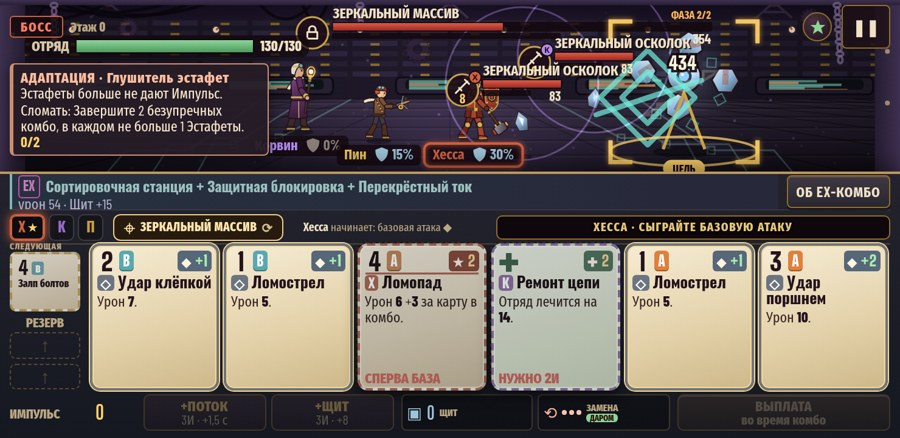
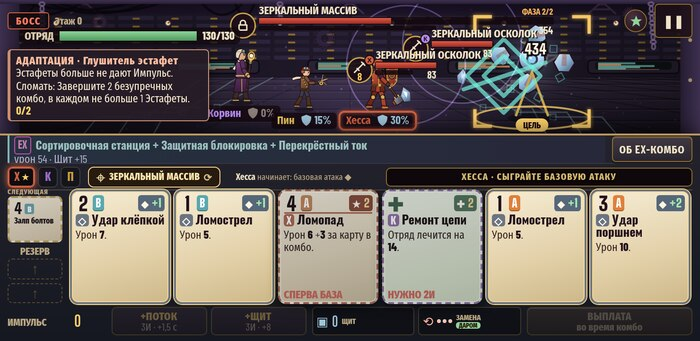
Record Phase 12 beta evidence, remaining checks and rollback

diff --git a/docs/PHASE12.md b/docs/PHASE12.md
@@ -146,3 +146,235 @@ policy uses that action in visible danger and the learner policy does not. The o
 range, 28 versus 23. On both learner ranges the leader is Ladder Rungs. No account-level
 stats, starter conditions or unlock thresholds changed. Early unlock concentration remains
 a replayability question for the beta rather than a reason to add grinds.
+
+## Release-candidate engineering
+
+| Finding | Reproduction | Correction and regression evidence |
+|---|---|---|
+| A stale tab could overwrite a newer run checkpoint or profile. Malformed data looked like a fresh profile. | Load the same snapshot in two sessions, update one, then save from the other. Separately make localStorage unavailable or seed a malformed record. | Save APIs distinguish an empty key, an unreadable record, a changed snapshot and a successful write. They check the current identity before overwriting or clearing it. The UI reports the failure and offers the latest checkpoint. Storage fixtures cover newer runs, newer checkpoints within one run, malformed fields, denied writes, and intentional data erasure limited to game keys. |
+| An interrupted run finalization could leave a live save after the profile commit. | Fail the clear operation after the profile has already been written, then resume. | The Phase 9 two-stage protocol handles recovery with exactly one run record and one set of awards. Browser fault injection demonstrated this in Russian, with three assertions passing. The save schema and storage keys are unchanged. An ordinary Continue from combat restarts that encounter from the checkpoint. |
+| A new worker could cache an old page and activate with a mismatched bundle. It could also remove a sibling scope's cache. | Serve the worker before its matching HTML. Use a sibling app-cache sentinel in the same origin. | The worker validates the page bytes and completes its own asset install before it can activate. Failures leave the previous cache usable. Activation removes only this app scope's superseded caches. Tests assert an old offline launch, a subsequent upgrade, survival of the sibling cache and a save/unlock still readable offline after restart. |
+| Backwards presentation timestamps could stop the Canvas draw loop. | Replayed on the Phase 11 distribution with a controlled negative timestamp, and the old mirror-update run also produced a negative Canvas radius. | Battle and scene clocks are monotonic and the current build draws successfully under the same timestamp fixture. The test observes the real draw loop across the timestamp change. Combat scheduling and elapsed-time caps remain in force. |
+| The compact target label could fall outside the play area, and party labels could intersect the adaptation plaque. | Use the 740×360 DPR 2 Mirror Array fixture with actual summoned enemies and EX recap. | Keep selection labels inside the field and give hero labels clearance. Mirror Array with two shards and a three-enemy ordinary formation retained three separate targets, 12 px effect text and independent adaptation and EX recap areas in the fixture. |
+| Hunt and Reflection forecast information could misstate the defended or dynamic hit. | Change live Guard and vary the last resolved hit. | The intent previews and executed abilities use the same damage inputs. Contract tests cover dynamic Reflection, and the bilingual entry explains Hunt mitigation and the new destination of a latched Reserve card. |
+| Quiet paused screens continued redrawing. The audio scheduler advanced into a muted or interrupted context. | Count Canvas paint calls while paused, and inspect context and music state following real control events. | Static paused state is invalidated by presentation changes such as viewport changes. Bounded viewport rescaling is accounted for. Audio unlock understands pointer, keyboard and click activation, and music work is suspended when its context or volume cannot produce playback. |
+
+The procedural stress fixture walked reachable nodes and edges on all three generated Act
+graphs for each of 1,024 seeds. It observed all 33 ordinary formations and checked Act
+restrictions and reachable routes. Combat tests exercise reservations, legal cancellation,
+target death and retargeting, interrupted EX actions, Reserve, Churn, enemy summons and boss
+adaptations. The existing historical Phase 4–8 coverage is retained. The original undocumented
+Phase 8 Act II stall still has no established root cause. Recent campaigns and recovery tests
+exercise the transitions that succeeded, so their completion does not identify the old failure.
+
+## Performance and presentation evidence
+
+Measurements used desktop Chromium in a 740×360 viewport at DPR 2. An instrumented page
+counted actual battle draws and collected RAF interval, event-to-paint time, observer latency
+and post-GC heap data. Timings include the browser and test runner under variable load.
+
+| Measurement | Phase 11 | Phase 12 |
+|---|---:|---:|
+| Packaged HTML | 1,022,039 bytes | 1,025,366 bytes |
+| Swift Playgrounds ZIP | 921,980 bytes | 921,858 bytes |
+| First app ready, observed | 1,750 ms | 1,458 ms |
+| Warm ready, three samples | 609, 534, 534 ms | 721, 436, 338 ms |
+| Paused Canvas draws over 1.8 s | 77 | 0 |
+| Simple active draw p95 | 5.8 ms | 5.6 ms |
+| Crowded active draw p95, stressed sample | 25.1 ms | 4.6 ms |
+| Heap after collection, first / eighth mount | approximately 4.06 / 5.86 MB | approximately 4.03 / 5.90 MB |
+
+The repeatable optimization is elimination of static paused draws. The loading, active draw
+and timing samples vary with competing processes. They do not establish a general rendering
+speedup or rule out slow accumulation on very long sessions. No mobile hardware, thermal,
+battery or hardware audio measures were available.
+
+The eight bilingual viewport sizes were measured on the packaged build, with no detected
+collisions between the sampled card affordances, enemy plates and EX recap. All 16 combinations
+preserved at least 12 CSS pixels for essential card effects. The shortest field is 141 px.
+Rotation, touch selection, browser focus restoration and keyboard input were sampled
+separately. Linux Firefox ESR 153.5.1 and WebKitGTK 2.52.6 each opened the package at phone
+dimensions, accepted user input, executed a Basic and restored the same run and language.
+These were smoke tests. Firefox audio remained suspended in the headless test. WebKitGTK
+entered a running audio context, while the host had no usable PCM output. Safari, fullscreen
+standalone on iOS and physical Apple device tests remain open.
+
+The mixed music/effects stress recording peaked around 0.159 on a normalized scale with
+zero clipped samples. Muting, first user activation, pause ducking and unmute recovery were
+measured, with Chromium reaching a running context again. These are technical checks.
+Sound quality and device interruption behavior belong to direct listening and physical tests.
+
+See [crowded compact field](phase12/compact-formation.jpg),
+[Mirror Array and the EX recap](phase12/compact-mirror.jpg), and
+[offline campaign results](phase12/offline-results.jpg). The Mirror fixture and scheduler
+frame sequences are controlled presentation evidence. The campaign is ordinary progression.
+
+The larger Russian sweep visited 1,040 rendered screens, including base and upgraded cards.
+It reproduced five small overflows at 740×360 on Dead Drop, Mirror Wire and Pressure Splice.
+Their final compact wording keeps the conditions and values. The detail views retain the
+full wording. In a dedicated packaged retest, all six versions remained at 12 px and fit
+without measured overflow. [Before and after, top then bottom](phase12/compact-copy-comparison.jpg).
+
+A second packaged performance sample found median warm readiness about 557 ms, simple and
+crowded active draw p95 of 3.1 and 5.7 ms, 0 paused draws, 7 ms button-to-paint and 1.4 ms
+save persistence p95. Its first ready result was 1,744 ms. These readings confirm the sizing
+and pause result, with the spread of the remaining timings visible.
+
+## Regression matrix
+
+| Coverage | Evidence |
+|---|---|
+| Unit and integration tests | 281/281 on the Phase 11 checkpoint and 288/288 on the clean final source. The matrix includes the original combat, timing, campaign, rarity, archetype, adaptation and progression suites. |
+| R1 enemy pacing and R2 decision time | Identical Phase 11 and Phase 12 canonical 2.5-second learner opening output. Enemy pace and deliberate Relay timing remain under the standard suites. |
+| R3 downtime and action scheduling | Phase 5 browser fixture 33/33. The queue position, contact, cancellation, reserved Momentum, post-chain breather and enemy ATB during Recovery are independently checked. |
+| R4 targeting | 36/36 over English and Russian touch viewports. The queued attack fixture records one hit and one command still waiting before the retarget. Death, indicators and target cycling were checked separately. |
+| R5 early survivability and content | 60/60 opening and Act I completions for every measured policy and loadout. The original Phase 8 focused formation suite passed 11/11, with all ten actual build paths represented. |
+| R6 presentation and accessibility | Sixteen bilingual layout combinations, Russian full-surface sweep and fixed-card retest, reduced motion, muted state, animated combat fixtures, and the snapshot comparisons above. The engine and Canvas checks were run separately from the sweep. |
+| R7 saves, localization, offline and progression | Russian Phase 7 EX fixture 47/47, Phase 8 interface scenario 51/51, Phase 9 historical and interrupted-finalization fixtures 6/6 and 3/3, plus complete ordinary campaigns and real worker cache replacement. |
+
+The eight Phase 4 failures carried through Phase 10 no longer reproduced as a group. The
+historical suite initially recorded 22/23. Its single intermittent missed snapshot was a
+Reserve refill preview check. Read-only event logging was added to show the exact slot,
+draw, gesture and intervening actions. The same assertion passed with the observed predicted
+card in the same slot, 23/23. The first miss had insufficient evidence to establish a cause.
+
+Phase 5 reproduced a different problem in its fixture. The Warden Locked Pin's exact
+scripted Arte, then its regional Static modifier could lock it again. Two naturally active
+Iron Maws keep the planned chain and enemy ATB coverage. The test still checks lossless
+cancellation, all three heroes, and actual outcome, and the tutorial suite checks enemy Lock
+as its own interaction. Phase 6's initial queue lesson expected an eligible hand at one
+particular moment. The harness now lets the player reach another eligible chain through its
+ordinary controls and asserts the actual paused lesson and executing/waiting UI. The
+returning-player and staged tutorial run passed 32/32. Targeting replaced a wall-clock sleep
+between contact and retargeting with browser-clock fixture control. Every gameplay input is
+still a touch and the exact combat queue assertion is stronger.
+
+The earlier Phase 11 → Phase 12 Pages update passed 22/22. The historical mirror path
+completed all cache and save operations but reproduced one page error stamped
+`c35c1c1`, the old build's Canvas radius exception. Candidate-only Pages and mirror packages
+passed 22/22 and 21/21 with interrupted worker publication, isolated off-origin scope
+coverage and browser-offline restart. The rollback below uses the same game versioning,
+scope and saved profile protocol.
+
+### Ordinary gameplay and controlled coverage
+
+| Packaged session | Evidence |
+|---|---|
+| Phase 11 baseline, EN tablet, seed 727643445 | 16/16. Ordinary campaign completed before corrective work. |
+| 0.2.12 EN tablet, fresh Badge, seed 201643931 | 16/16. Tyrant, Mirror Array, Corruptor. Three resumes, credits, next run. |
+| 0.2.12 RU phone, historical profile with Echo Splice, seed 806842376 | 16/16. Tyrant, Mirror Array, Corruptor. Three resumes, credits, next run. |
+| 0.2.12 EN phone offline, fresh Badge, Reserve-focused policy, seed 393416783 | 18/18. Tyrant, Mirror Array, Core. Victory and Reserve-led build through ordinary card offers. Three resumes, credits, Museum, next start, zero network requests while offline. |
+| Earlier 0.2.12 iteration, ordinary seeds 449171355, 46982699, 396826758 | EN tablet Badge, RU phone Echo Splice and EN phone offline Badge. Together with the later candidate runs, ordinary browser victories exercised all six bosses. These runs supply Regent and Protocol Auditor coverage. |
+| Defeat and subsequent start | A separate ordinary fresh run permitted enemy damage through defeat. Results, one defeat record, reload and the new run were checked independently from victory. |
+
+Historical profiles supplied only the previously earned starting eligibility at session start.
+Campaigns otherwise used actual taps, standard map generation, legal transactions and
+ordinary rewards. Between them, the campaigns reached shops, events, rest, surgery, mutations,
+elite fights, both endings relevant to their outcomes and subsequent runs. Rail Bailiff, Phase
+Lantern and Vector Winch appeared in naturally generated fights. The Phase 12 roster, split-EX,
+late-boss, time reversal, damaged storage and unusual queue tests supplied controlled coverage
+for cases normal campaign sampling may miss. None of the completed campaign runs above needed
+an automatic nudge or exposed a reproducible progression stall.
+
+## Reproducibility, rollback and release
+
+Build input is source `ba84a11062b9eb9673c96daecdb0c9c285294aeb`, which includes the
+gameplay and storage changes in `6e9d6ae3a0f9499943c2640add5a89f348cb4402`. The final
+package is 0.2.12. A second build from the clean source reproduces the HTML, service worker
+and binary Swift Playgrounds ZIP byte for byte. SHA-256 values for the same build follow.
+
[2 lines of base64/hex data omitted]
+- `git log -1 --format=%H -- dist/index.html` identifies the distribution commit on the development branch.
+
+```sh
+npm ci
+npm test
+npm run build:ios
+unzip -t dist/ios/SignalBreak.swiftpm.zip
+node tools/serve.mjs dist 8128
+```
+
+The archive holds the existing Swift wrapper, Info and icon configuration, and built game
+resources. The package declares iOS 16.0, iPhone and iPad families and landscape. Install
+Playwright as a test tool and use the browser build it supports, then run the relevant
+acceptance commands in another terminal.
+
+```sh
+SB_URL=http://localhost:8128/index.html node tools/accept8.mjs campaign en 1194 834 /tmp/sb-beta-en
+SB_URL=http://localhost:8128/index.html SB_CAMPAIGN_PROFILE=tests/fixtures/meta-v2-phase8.json SB_CAMPAIGN_STARTER=echo_splice node tools/accept8.mjs campaign ru 844 390 /tmp/sb-beta-ru
+PWA_OFFLINE_CAMPAIGN=1 SB_CAMPAIGN_FOCUS=reserve node tools/pwa.mjs /tmp/sb-beta-offline
+node tools/pwa.mjs /tmp/sb-pwa-pages
+PWA_PATH=/signalbreak/ PWA_PORT=8201 node tools/pwa.mjs /tmp/sb-pwa-mirror
+node tools/beta-browser.mjs compact /tmp/sb-beta-compact
+node tools/beta-browser.mjs card-fit /tmp/sb-beta-fit
+node tools/beta-browser.mjs performance /tmp/sb-beta-perf
+node tools/beta-browser.mjs audio /tmp/sb-beta-audio
+node tools/phase12-balance.mjs /tmp/sb-balance-a.json 1001 30
+node tools/phase11-audit.mjs /tmp/sb-builds-a.json 30 1001
+node tools/accept8.mjs runs 3 1 1 /tmp/sb-formation
+```
+
+Use seed starts 3001 and 5001 for the replication and holdout. For historical comparisons,
+run the identical tool and policy in worktrees pinned to the earlier source and distribution
+checkpoints. The reporting coverage spans the project’s existing test harnesses, so browser
+tools that import `/src/` use the development server documented at their heads.
+
+For a deliberate web rollback on the verified development branch, restore the published
+`dist` files from `77ed51bd848436a3ef1e7d62f6c9844bec6ebb9d` in a clean checkout, review and
+commit the complete folder together, and push to the same branch. Confirm the Mirror
+workflow served the old source stamp `c35c1c1` and verify an offline relaunch with a retained
+profile after activation. The Phase 11 source is separately recoverable at
+`c35c1c1ea4671774f5a67276d5ade0bf2b58ee15`. No rollback was performed.
+
+The [development mirror](https://signalbreak-game.website.yandexcloud.net/) is the established
+candidate route. The GitHub Actions [Mirror web app workflow](https://github.com/Magma-rager/def/actions/workflows/mirror.yml)
+publishes the candidate there and checks HTTP 200 and the served source stamp. Direct
+independent Yandex and Pages connections from this environment are refused by the network
+proxy. Alternate hosting and App Store distribution are outside this milestone.
+
+## Defect register and beta readiness
+
+No unresolved reproducible critical defect remains in the verified Chromium beta environment.
+Phase 12 confirmation is bounded by the routes, browsers, fault cases and seeds above.
+
+| Priority | Open item | Consequence |
+|---|---|---|
+| Major balance observation | Winch/Wing still takes learners out at roughly its former rate. Cash Out leads the current policy and Interference still trails. | Reassess repeated inaccessible pressure or dominant choices against human run circumstances. Current simulations do not establish perceived fairness. |
+| Historical investigation | Phase 8 Act II stall, and one intermittent Phase 4 preview snapshot. | No independently reconstructed stall on current transitions. Preserve coverage, and capture exact pending state and UI on any recurrence. |
+| Minor presentation | Grouped results toasts can cover part of the last boss line briefly at phone size. | The finished-run record and result controls remain accessible after the notification expires. |
+| Compatibility verification | Firefox headless audio stayed suspended. No Safari/device, iOS installed-app or physical interruption test. | Cross-browser smoke evidence is available. Native installation, lifecycle, listening and actual device interaction need the planned verification. |
+| Measurement limit | Eight-mount heap sample and repeated rendering measurements. | No bounded effect-list runaway observed in the stress runs. Long sessions and actual mobile performance remain unmeasured. |
+
+| Distribution target | Verdict | Basis and remaining gate |
+|---|---|---|
+| Browser-based human beta | **Ready** in tested Chromium | Both languages, entire campaigns, defeat, reload, progression and package deployment. Firefox and WebKitGTK are smoke coverage. Safari is pending. |
+| Offline PWA beta | **Ready** in tested Chromium | Actual offline campaign, interrupted worker update, scoped replacement, local save retention and re-entry. iOS Add to Home Screen is unverified. |
+| Native Apple device testing | **Conditionally ready** | Valid, deterministic Playgrounds archive. Compile, run, save/resume, rotate, suspend and measure on hardware with the Apple toolchain. |
+| Eventual public web release | **Not ready** | Owner-led beta, evidence-based fixes and final distribution verification remain. |
+| Eventual App Store release | **Not ready** | Native compilation, real bundle identity, signing, device verification, beta and explicit submission approval remain. |
+
+The bilingual [beta packet](PLAYTEST.md) describes access, controls and accessibility, and
+collects experience-sensitive feedback on comprehension, timing, targeting, builds,
+progression, presentation and performance. It includes a reproducibility template, asks whether
+a player used Reserve and Churn spontaneously, and treats subjective observations separately
+from repeatable failures. The [draft notes](RELEASE_NOTES.md) are prepared for later distribution.
+Human beta testing has not commenced.
+
+## Developer retrospective
+
+Relative to the inherited implementation, the Phase 9 work demonstrates continuation of
+the same run engine and coherent progression through stable saves, achievements and museum
+records. Phase 10 authored differentiated animation clips and synchronized visual contact
+with the scheduler. Phase 11 delivered new cards, procedural enemy sprites and enemy poses,
+with acquisition and ordinary encounter evidence. Phase 12 reproduced earlier policies and
+worked back from fight traces to narrow late-game changes. It also addressed stale save
+writers, mixed package activation and the stopped Canvas loop. The same architecture survived
+those changes, and the candidate can be regenerated from a named source commit.
+
+This supports technical ownership and continued iteration on SIGNAL//BREAK. The earlier
+Claude Code work established the core gameplay, procedural look and many of the regression
+tools this phase used. The phase evidence shows new audiovisual work in that established
+style and actual motion and gameplay review. It does not establish that the work equals or
+surpasses the earlier artistic quality. Direct listening, device-specific polish, human
+balance and comprehension, and native deployment remain unestablished capabilities here.

diff --git a/README.md b/README.md
@@ -114,17 +114,13 @@ English and Russian. Switch on the title screen (top-left) or in Settings → La
 - `src/i18n/ru.js` holds every Russian string: interface text keyed by the English string used in `t('…')`, and content keyed by the ids in `src/data/*`. Terminology: `docs/GLOSSARY_RU.md`.
 - The engine, run layer and save code never import `src/i18n`. They produce ids and message keys, so balance and saves are identical in both languages, and a run saved in one language continues in the other.
 - Cyrillic comes from extra faces in the same font families (Fira Sans Extra Condensed for Barlow Condensed, Oswald for Big Shoulders Display, and Spectral's own Cyrillic), embedded in the build, so the game stays offline.
-- Card names and texts that run long shrink to fit (`fitCard` in `src/ui/cardView.js`), and names may take a second line.
+- The combat hand uses concise localized descriptions on compact screens. Essential effects retain a 12 CSS pixel floor. Hold a card for its full description.
 
 **Adding a language:** copy `src/i18n/ru.js` to `src/i18n/<code>.js`, translate the values (keep `{placeholders}`, and give plural groups as many forms as the language needs; `pluralIndex` in `index.js` decides which form is used), then register it in `DICTS` and `LANGS` in `src/i18n/index.js`. `npm test` lists anything untranslated, and `node tools/i18n-layout.mjs <outDir> <code>` reports clipped text on every screen at six viewports. Add font faces if the script needs them.
 
 ## Version
 
-The version follows the development roadmap. The title screen and Patch Notes show the current build.
-
-- `0.N.x`: N is the highest roadmap phase whose exit gate has passed, with the evidence recorded in `docs/AUDIT.md`.
-- `0.N.P`: P counts published builds with changes since that gate.
-- `1.0.0`: the eventual release after the revised roadmap and final beta.
+The current roadmap uses the `0.2.x` development sequence. The title screen and Patch Notes show the current version and the title also gives the source stamp. Version 1.0.0 is reserved for the authorized release after the beta, resulting corrections and release verification.
 
 **0.2.12** is the pre-beta candidate. The title shows the source build stamp. The [Phase 12 report](docs/PHASE12.md) records corrective balancing, safety changes, platform evidence and the rollback procedure. See the [draft release notes](docs/RELEASE_NOTES.md), [beta protocol](docs/PLAYTEST.md), [Phase 11 content report](docs/PHASE11.md), [Phase 10 presentation report](docs/PHASE10.md) and [Phase 9 progression report](docs/PHASE9.md).
 
